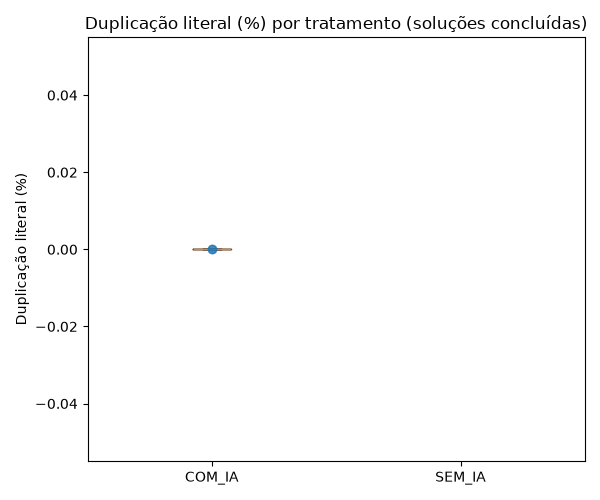
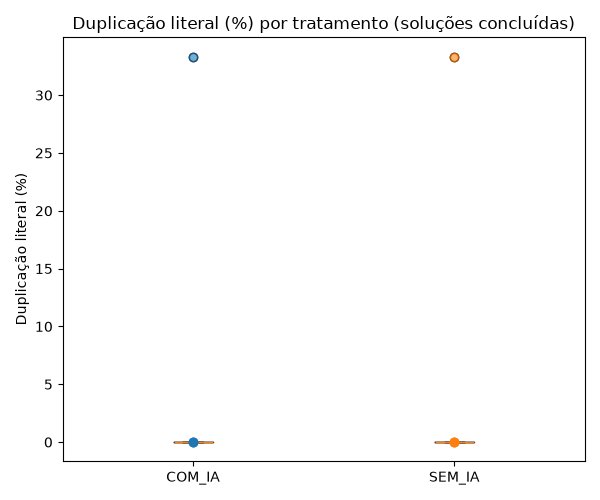
#16 Atualiza avaliacao_trials.csv, consolidacao e outputs de H2/H3 com dataset completo
Preenche avaliacao objetiva de Pedro (concluido/casos_aprovados/status_testes verificados reexecutando a suite; python/assistente/modelo/exposicao_previa deixados em branco por falta de autorrelato). Regenera consolidacao (12/12 tempos e avaliacoes). Corrige bug do Wilcoxon degenerado em analise_h3_estrutura.py (diferencas pareadas todas zero) e reroda H2/H3 com o dataset completo. Atualiza RELATORIO_H2.md com os resultados finais (100% de conclusao nos dois tratamentos, McNemar nao informativo).

diff --git a/LABORATORIO 02/S03/scripts/analise_h3_estrutura.py b/LABORATORIO 02/S03/scripts/analise_h3_estrutura.py
@@ -91,6 +91,16 @@ def rodar_wilcoxon(pares):
             "observacao": "Menos de 3 pares disponíveis; teste de Wilcoxon não é aplicável.",
         }
 
+    diferencas = pares["COM_IA"] - pares["SEM_IA"]
+
+    if (diferencas == 0).all():
+        return {
+            "n_pares": len(pares),
+            "estatistica": 0.0,
+            "p_valor": 1.0,
+            "observacao": "Todas as diferenças pareadas são zero (empate perfeito); Wilcoxon é degenerado aqui.",
+        }
+
     try:
         resultado = wilcoxon(pares["COM_IA"], pares["SEM_IA"])
         return {

diff --git a/LABORATORIO 02/S03/RELATORIO_H2.md b/LABORATORIO 02/S03/RELATORIO_H2.md
@@ -6,24 +6,32 @@ O desfecho de cada trial é binário: `1` somente quando a avaliação registra 
 
 O teste exato de McNemar usa pares por integrante e família de kata: déficit (`ReposicaoEstoque`/`MetaProducao`) e excesso (`ExcessoBagagem`/`ConsumoEnergetico`). A alternativa unilateral, definida no [protocolo](../S01/PROTOCOLO.md), é maior proporção de conclusão com IA. Os 26 casos da suíte não são 26 observações independentes. Quando um integrante fornecer dois pares, o p-valor combinado será exploratório porque esses pares compartilham a mesma pessoa.
 
-## Resultados disponíveis em 24/09/2026
+## Resultados atualizados em 25/09/2026
 
-A [consolidação desta análise](resultados/consolidacao_h2_20260924/trials_consolidados.csv), gerada das fontes existentes sem alterar a S02, contém quatro registros `COM_IA` e nenhum `SEM_IA`. Dois registros de `JoseMiguel` têm avaliação 26/26 e conclusão dentro do limite. Os dois registros de `Pedro` têm tempo, mas ainda não têm avaliação; por isso seu desfecho permanece desconhecido. O [diagnóstico](resultados/consolidacao_h2_20260924/diagnostico.json) registra quatro tempos e duas avaliações dos 12 trials previstos.
+Com a [consolidação completa](../S02/resultados/consolidacoes) (12/12 trials com tempo e avaliação), a análise de H2 agora cobre os 3 integrantes:
 
 | Tratamento | Trials avaliáveis | Concluídos no prazo | Proporção | Sem avaliação |
 |---|---:|---:|---:|---:|
-| `COM_IA` | 2 | 2 | 100% | 2 |
-| `SEM_IA` | 0 | 0 | Indefinida | 0 |
+| `COM_IA` | 6 | 6 | 100% | 0 |
+| `SEM_IA` | 6 | 6 | 100% | 0 |
 
-Há **0 pares completos e 0 discordâncias**; o McNemar não tem p-valor calculável. A proporção de 100% descreve somente os dois trials avaliados, não uma comparação entre tratamentos. As observações da avaliação desses trials registram sequência sem sorteio formal, acesso do assistente ao repositório inteiro e tempos que não representam o fluxo humano completo de leitura, prompt e revisão. Nesta coleta não há base para confirmar ou rejeitar H2 ou atribuir efeito causal à IA.
+Há **6 pares completos e 0 discordâncias** (todos os 6 pares concluíram nos dois tratamentos); o McNemar não tem p-valor calculável porque não existe nenhuma discordância para testar — não é evidência de ausência de efeito, é ausência de variação no desfecho binário observado. Com 100% de conclusão nos dois braços, H2 não pode ser testada de forma informativa nesta amostra: não há como diferenciar "IA não ajuda a concluir" de "a tarefa era fácil o suficiente para todos concluírem de qualquer forma" (efeito teto).
+
+### Ressalvas que seguem valendo
+
+- Sequência formal S1–S4 nunca foi sorteada pelo grupo; execução em ordem ad hoc.
+- Nos trials `COM_IA` de `JoseMiguel` e `Pedro`, o assistente (Claude Code) teve acesso ao repositório completo, sem isolamento por "conversa nova só com o kata corrente" previsto no protocolo.
+- Dois trials `SEM_IA` do `Eddie` foram registrados como soluções de prática assistida por IA (Codex), não representando observações genuinamente sem assistência.
+- **Nova ressalva**: 4 dos 12 trials (`Eddie` COM_IA ×2, `Pedro` SEM_IA ×2) têm `tempo_segundos` divergente em várias centenas de segundos da diferença real entre `inicio` e `fim` em `tempos_trials.csv` — ver [análise de H1](../S03/resultados/h1_trials_suspeitos.csv). Isso não muda o desfecho binário de H2 (mesmo os tempos suspeitos ficam abaixo de 2.100s), mas é um problema de qualidade de dado que compromete a análise de tempo (H1) e deveria ser investigado antes do relatório final.
+
+Nesta coleta, com 100% de conclusão nos dois tratamentos e múltiplos desvios de protocolo documentados, **não há base para confirmar, rejeitar ou atribuir efeito causal à IA em H2**.
 
 ## Reprodução e arquivos
 
-O [script H2](scripts/analise_h2_correcao.py) lê um `trials_consolidados.csv` e gera [trials auditados](resultados/h2_trials.csv), [resumo por tratamento](resultados/h2_resumo_tratamentos.csv), [pares](resultados/h2_pares.csv), [tabela de McNemar](resultados/h2_mcnemar.csv) e [gráfico de barras](resultados/h2_proporcao_conclusao.svg). A consolidação dentro de `S03/resultados/` é uma cópia derivada para esta análise; os arquivos da S02 permanecem intactos.
+O [script H2](scripts/analise_h2_correcao.py) lê um `trials_consolidados.csv` e gera [trials auditados](resultados/h2_trials.csv), [resumo por tratamento](resultados/h2_resumo_tratamentos.csv), [pares](resultados/h2_pares.csv), [tabela de McNemar](resultados/h2_mcnemar.csv) e [gráfico de barras](resultados/h2_proporcao_conclusao.svg). Os arquivos da S02 permanecem intactos; sem `--consolidado`, o script usa a consolidação mais recente em `S02/resultados/consolidacoes/` por data de modificação.
 
 ```bash
-python3 "LABORATORIO 02/S03/scripts/analise_h2_correcao.py" \
-  --consolidado "LABORATORIO 02/S03/resultados/consolidacao_h2_20260924/trials_consolidados.csv"
+python3 "LABORATORIO 02/S03/scripts/analise_h2_correcao.py"
 ```
 
 Quando a equipe gerar uma nova consolidação na S02, passe seu caminho com `--consolidado`. Sem essa opção, o script escolhe a consolidação mais recente da S02 por data de modificação. O [teste automatizado](testes/test_analise_h2.py) cobre a probabilidade exata, o pareamento e aprovação após o limite.
